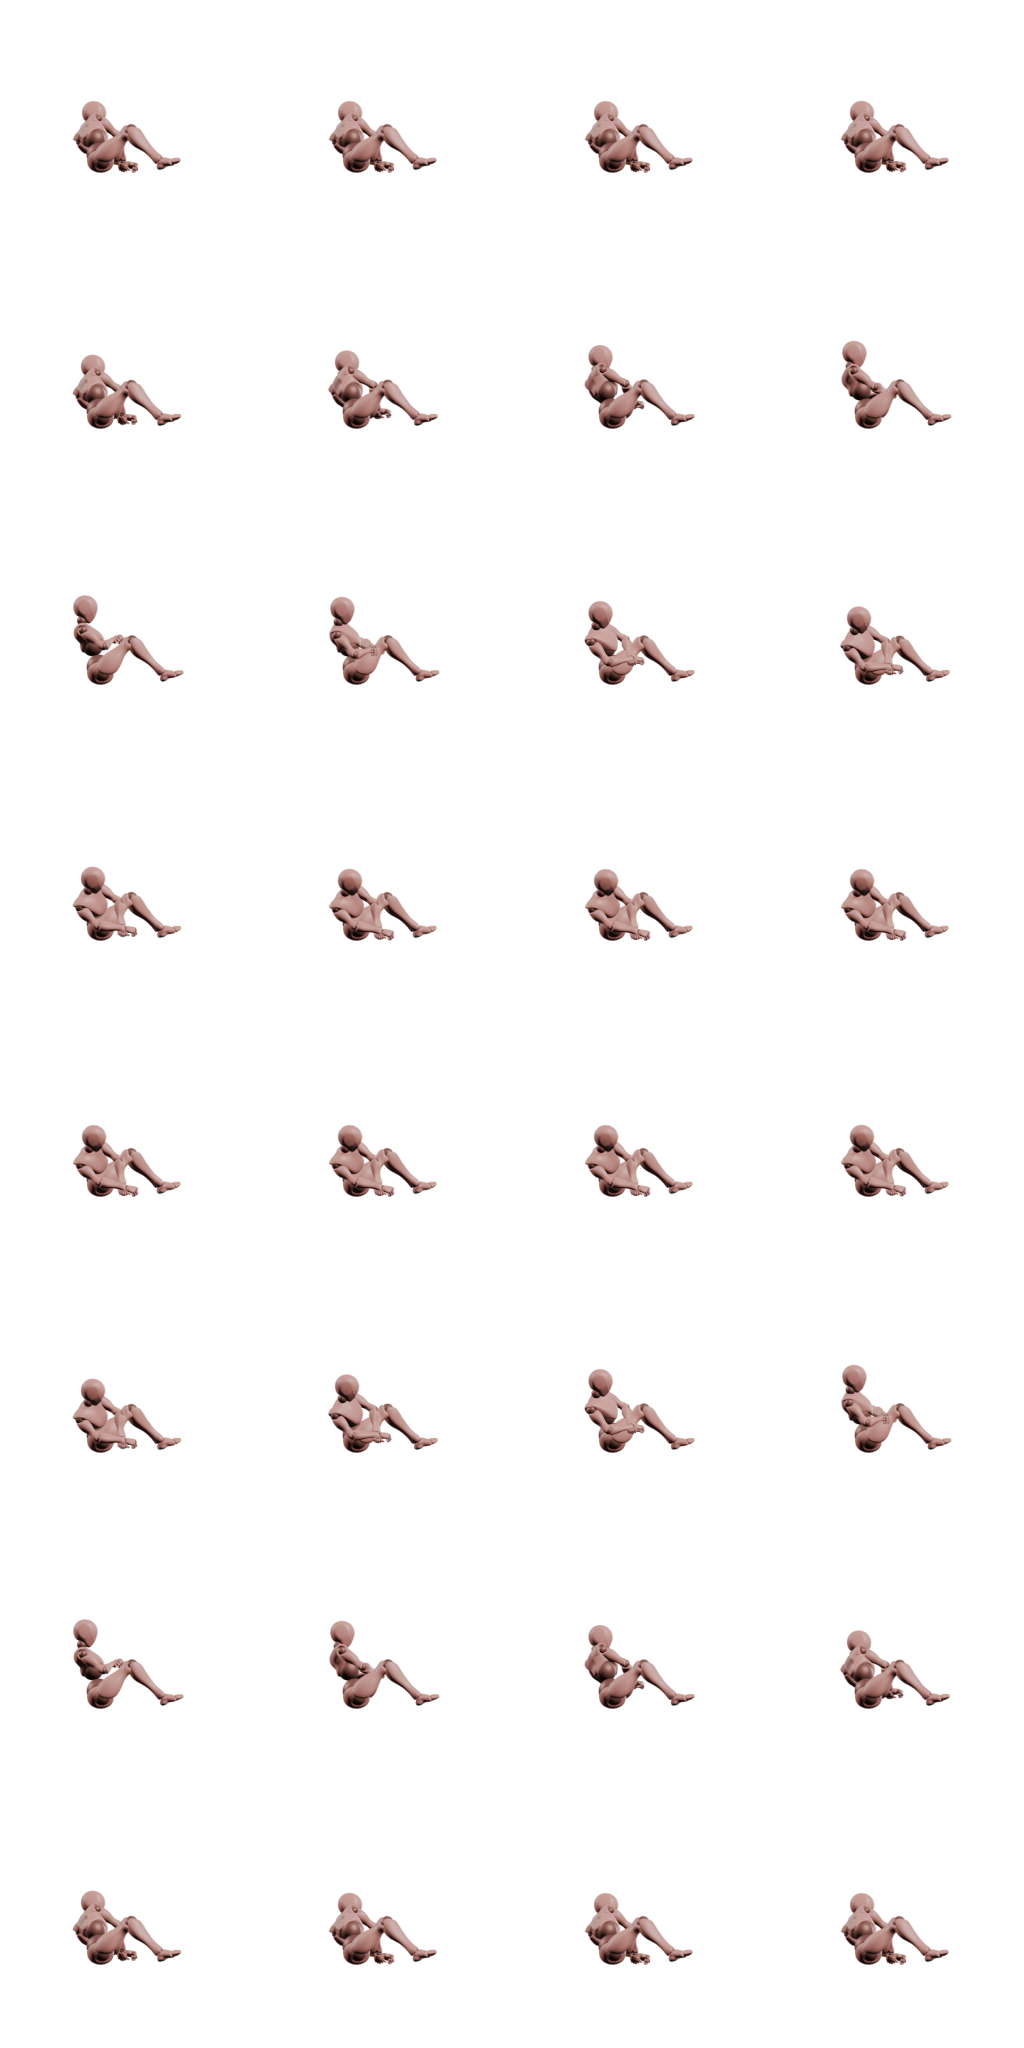
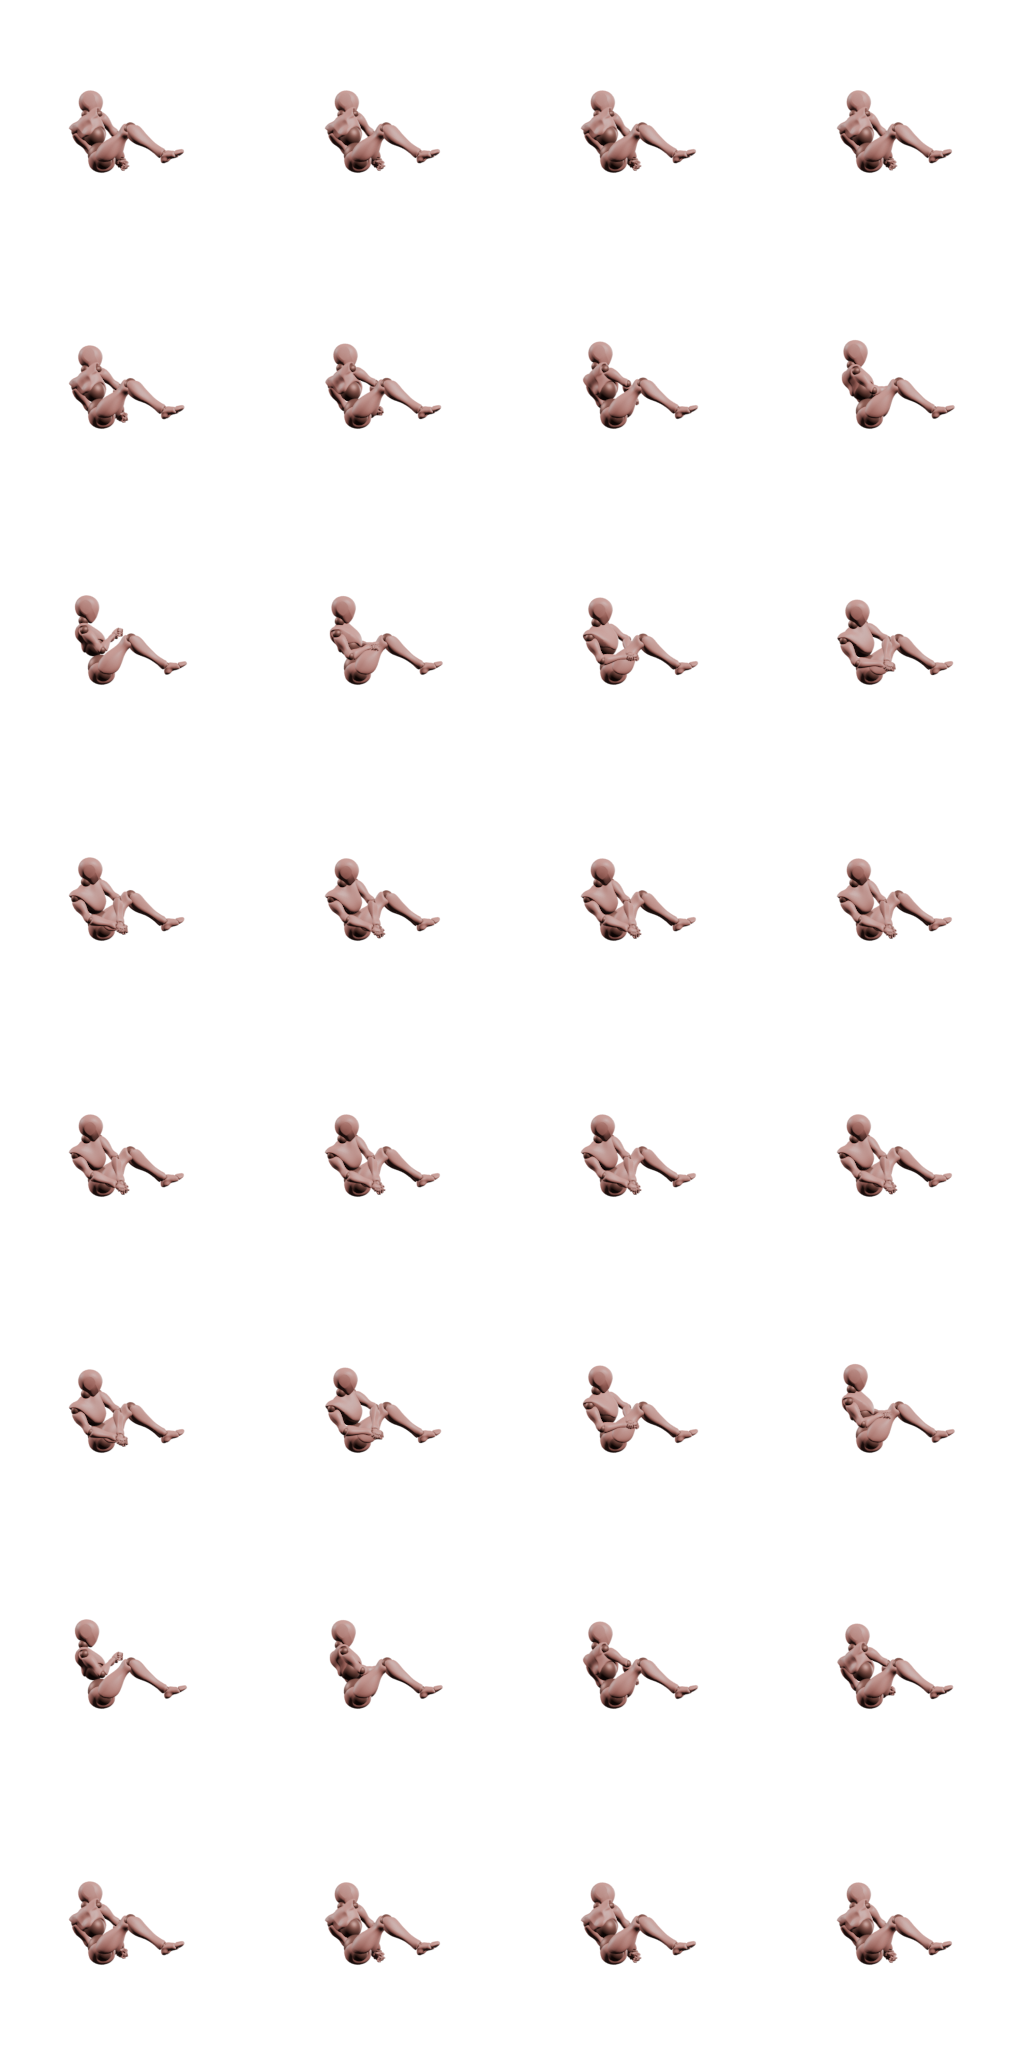
Russian twist : 70° de rotation, 35° d'inclinaison, pieds en l'air
Deux reproches, dont un que la mesure n'avait pas su voir.

Les pieds d'abord. Trois centimètres et demi au-dessus du tapis
passaient le contrôle — ils ne touchaient pas — et se voyaient
touchés : à cette échelle, la semelle et le sol se confondent. Le
genou se plie désormais à 87° avec la cheville portée en avant, ce
qui décolle le talon de **dix centimètres et demi**, assez pour que
l'œil le dise aussi.

La rotation ensuite, et c'est un arbitrage que la version précédente
refusait de faire. Pour poser le coude au tapis il fallait coucher le
tronc à 57° sur le côté ; à ce compte-là le geste se lit comme un
corps qui bascule de droite à gauche, pas comme un buste qui tourne.
On passe donc à **35° d'inclinaison pour 70° de rotation** : le
thorax se présente franchement de dos à un bout de course et de face
à l'autre, ce que fait la vidéo.

Le coude n'atteint donc plus le tapis — il s'arrête à une quinzaine
de centimètres, les mains jointes descendant, elles, à douze. Les
trois vidéos ne posent jamais le coude non plus ; c'est la main qui
vient frôler le sol à côté de la hanche.

La tête cesse de se jeter sur le côté à chaque bout de course : elle
suit le thorax et regarde les mains. Ce ballant était la deuxième
chose qu'on voyait après la bascule.

Mesuré sur les seize images : aucun bras dans le tronc (3,1 cm de la
peau au plus près), pieds à 10 cm, cinq centimètres et demi entre
l'avant-bras et la cuisse, saut moyen de 0,90 par image.
[…]

diff --git a/scripts/gestes_generes.py b/scripts/gestes_generes.py
@@ -1206,44 +1206,44 @@ GESTES = {
 
     # Russian twist, relevé sur trois vidéos de démonstration.
     #
-    # ## Le mouvement, tel que les vidéos le montrent
+    # ## Ce que le mouvement est, et ce qu'il n'est pas
     #
-    # Assis, buste en arrière d'une quarantaine de degrés, genoux pliés, talons
-    # décollés, mains jointes devant la poitrine. Ce qui tourne, c'est la
-    # **ceinture scapulaire** : les épaules pivotent autour de l'axe du tronc,
-    # une épaule part en avant pendant que l'autre recule, et les mains suivent
-    # jusqu'à venir frôler le tapis à côté de la hanche.
+    # Assis, buste en arrière, genoux pliés, talons décollés, mains jointes
+    # devant la poitrine. Ce qui travaille, c'est la **rotation** : les épaules
+    # tournent autour de l'axe du tronc, l'une part en avant pendant que
+    # l'autre recule, et les mains suivent jusqu'à venir près du tapis à côté
+    # de la hanche.
     #
-    # Cette description a coûté six essais, dont un qui a failli passer. Ce qui
-    # les a tous tués tient en une phrase : **une inclinaison latérale n'est pas
-    # une rotation**. Coucher le buste sur le côté descend bien la main au sol,
-    # mais laisse les deux épaules à la même profondeur — et le bras de
-    # l'épaule opposée doit alors traverser la poitrine pour rejoindre les
-    # mains. Mesuré sur la version précédente : l'humérus droit passait
-    # **2,6 cm sous la peau du thorax** sur quatorze images sur seize.
+    # Ce n'est **pas** une inclinaison latérale, et huit versions se sont
+    # perdues à confondre les deux. Coucher le buste sur le côté descend bien
+    # la main au sol — c'est même la seule façon d'y poser le coude —, mais
+    # cela laisse les deux épaules à la même profondeur : le geste se lit alors
+    # comme un corps qui bascule de droite à gauche, et le bras de l'épaule
+    # opposée n'a plus d'autre chemin vers les mains que le travers de la
+    # poitrine.
     #
-    # ## Les nombres, et d'où ils sortent
+    # D'où le partage retenu ici, et il se paie : **35° d'inclinaison, 70° de
+    # rotation**. Le coude ne touche donc plus le tapis — il s'arrête à une
+    # quinzaine de centimètres — parce que l'y amener demandait de coucher le
+    # tronc à 57°, et qu'à ce compte-là il n'y avait plus de rotation à voir.
+    # Les trois vidéos, du reste, ne posent jamais le coude : ce sont les mains
+    # jointes qui descendent frôler le tapis.
+    #
+    # ## Les nombres
     #
     # Relevé sur trente-huit images, en moyennant les **vecteurs** unitaires et
     # jamais les angles, qui explosent quand un segment passe près de la
     # verticale de l'image :
     #
+    #     bassin → épaule    (-0,436 ; +0,900)   64° au-dessus de l'horizontale
     #     bassin → genou     (+0,452 ; +0,892)   63°
     #     genou  → cheville  (+0,690 ; -0,724)  -46°
     #
-    # Repris de l'image elle-même pour ce que le relevé ne donne pas — il rend
-    # une pose de profil, et la rotation se joue dans la profondeur :
-    #
-    #     épaule au-dessus du tapis, au bout de course   ≈ 46 cm
-    #     inclinaison du tronc sur le côté, au bout      ≈ 52°
-    #     rotation des épaules autour de l'axe du tronc  ≈ 45°
-    #
-    # De là tout se déduit. Le bassin est à 0,19 m, le tronc mesure 0,432 m :
-    # la base du cou tombe à 0,43 · u du bassin, les épaules à 0,14 de part et
-    # d'autre le long de l'axe scapulaire tourné de 45°, et il ne reste qu'à
-    # vérifier que le point visé par les mains est à portée des deux bras et
-    # **devant** le plan de la poitrine. Il l'est : 0,43 m et 0,50 m pour une
-    # allonge de 0,562, et 36 cm en avant du sternum pour les deux.
+    # Le reste se construit : bassin à 0,19 m, tronc de 0,432 m, épaules à 0,14
+    # de part et d'autre le long de l'axe scapulaire tourné de 70°. Le point
+    # visé par les mains est alors à 0,52 m des deux épaules — pour une allonge
+    # de 0,562, donc un coude encore plié — et à 38 cm en avant du plan de la
+    # poitrine pour l'une comme pour l'autre.
     "russian-twist": {
         # De profil, comme les trois vidéos filment l'exercice. Le trois-quarts
         # avait été pris par réflexe — « le buste plie, donc trois-quarts » —,
@@ -1258,44 +1258,45 @@ GESTES = {
         "hauteur": 0.19,
         "symetrique": False,
         "poings": 1.0,
-        # Un temps au contact de chaque côté — c'est là qu'on marque —, rien au
+        # Un temps au bout de chaque côté — c'est là qu'on marque —, rien au
         # centre, qu'on traverse.
         "pauses": [0.16, 0.00, 0.16],
         "cles": [
             # Bout de course **à gauche**. Debout comme assis, la gauche du
             # personnage est en +X.
             _pose(ASSIS_EN_ARRIERE, {
-                # Le tronc s'incline de 52° vers la gauche en gardant sa
-                # bascule arrière : u = (0,788 ; 0,260 ; 0,558), ce qui pose
-                # l'épaule à 46 cm du tapis — la hauteur relevée.
+                # Le tronc s'incline de 35° vers la gauche en gardant sa
+                # bascule arrière relevée : u = (0,574 ; 0,347 ; 0,742).
                 #
-                # Le roulis, lui, dit la **rotation**, et il monte par étages :
-                # le bassin ne tourne pas, la colonne lombaire à moitié, le
-                # thorax en entier. C'est la torsion de l'exercice, et c'est
-                # elle qui manquait.
-                _os("Spine"): APlat((+0.839, +0.230, +0.494),
-                                    paume=(+0.273, -0.963, -0.014)),
-                _os("Spine1"): APlat((+0.839, +0.230, +0.494),
-                                     paume=(+0.472, -0.760, -0.446)),
-                _os("Spine2"): APlat((+0.839, +0.230, +0.494),
-                                     paume=(+0.472, -0.760, -0.446)),
-                _os("Neck"): (+0.65, +0.18, +0.74),
-                _os("Head"): (+0.38, -0.28, +0.88),
-                # L'axe des épaules, tourné de 45° : l'épaule gauche part en
-                # arrière et plonge, la droite vient en avant et monte. Sans ces
-                # deux lignes, les épaules gardent la profondeur que leur donne
-                # la seule inclinaison — et le bras droit n'a plus d'autre
-                # chemin que le travers de la poitrine.
-                _os("LeftShoulder"): (+0.273, +0.607, -0.746),
-                _os("RightShoulder"): (-0.273, -0.607, +0.746),
-                # Mains jointes à côté de la hanche gauche, à dix centimètres
-                # du tapis. Elles ne se superposent pas : l'une passe trois
-                # centimètres devant l'autre, le long de la normale au thorax,
-                # comme deux poings qu'on serre l'un contre l'autre.
-                _os("LeftArm"): Appui((+0.394, -0.283, +0.087),
-                                      (+0.273, +0.607, -0.746)),
-                _os("RightArm"): Appui((+0.366, -0.237, +0.113),
-                                       (-0.273, -0.607, +0.746)),
+                # Le roulis dit la **rotation**, et il monte par étages : le
+                # bassin ne tourne pas, la colonne lombaire de moitié, le
+                # thorax des 70° entiers. C'est ce dégradé qui fait une torsion
+                # plutôt qu'un bloc qui pivote.
+                _os("Spine"): APlat((+0.574, +0.347, +0.742),
+                                    paume=(+0.470, -0.881, +0.048)),
+                _os("Spine1"): APlat((+0.574, +0.347, +0.742),
+                                     paume=(+0.769, -0.538, -0.344)),
+                _os("Spine2"): APlat((+0.574, +0.347, +0.742),
+                                     paume=(+0.769, -0.538, -0.344)),
+                # La tête suit le thorax et regarde les mains, sans plus. Les
+                # versions précédentes la jetaient sur le côté à chaque bout de
+                # course, et c'est ce ballant-là qu'on voyait en premier.
+                _os("Neck"): (+0.35, +0.20, +0.92),
+                _os("Head"): (+0.30, -0.25, +0.92),
+                # L'axe des épaules, tourné de 70° : l'épaule gauche part en
+                # arrière, la droite vient en avant. Sans ces deux lignes, les
+                # épaules gardent la profondeur que leur donne la seule
+                # inclinaison, et il n'y a pas de rotation du tout.
+                _os("LeftShoulder"): (+0.280, +0.768, -0.575),
+                _os("RightShoulder"): (-0.280, -0.768, +0.575),
+                # Mains jointes à côté de la hanche gauche, à une douzaine de
+                # centimètres du tapis. Elles ne se superposent pas : deux
+                # centimètres et demi les séparent le long de l'axe des
+                # épaules, comme deux poings serrés l'un contre l'autre.
+                _os("LeftArm"): Appui((+0.337, -0.171, +0.116),
+                                      (+0.280, +0.768, -0.575)),
+                _os("RightArm"): Appui((+0.323, -0.209, +0.144),
+                                       (-0.280, -0.768, +0.575)),
                 _os("LeftHand"): SUIVRE,
                 _os("RightHand"): SUIVRE,
                 # Les jambes **contrebalancent** : quand les bras descendent à
@@ -1309,12 +1310,12 @@ GESTES = {
                 #
                 # Trente centimètres de décalage latéral sur la cuisse, soit un
                 # genou qui se déplace de quinze centimètres de chaque côté.
-                _os("LeftUpLeg"): (-0.234, -0.670, +0.704),
-                _os("RightUpLeg"): (-0.339, -0.648, +0.681),
-                _os("LeftLeg"): (-0.252, -0.678, -0.691),
-                _os("RightLeg"): (-0.322, -0.663, -0.675),
-                _os("LeftFoot"): (-0.288, -0.910, -0.297),
-                _os("RightFoot"): (-0.288, -0.910, -0.297),
+                _os("LeftUpLeg"): (-0.233, -0.622, +0.747),
+                _os("RightUpLeg"): (-0.339, -0.602, +0.723),
+                _os("LeftLeg"): (-0.252, -0.774, -0.581),
+                _os("RightLeg"): (-0.322, -0.757, -0.568),
+                _os("LeftFoot"): (-0.287, -0.939, -0.192),
+                _os("RightFoot"): (-0.287, -0.939, -0.192),
             }),
             # De face, mains jointes devant le sternum. Aucune torsion : c'est
             # le point de passage, pas une pose tenue.
@@ -1325,57 +1326,59 @@ GESTES = {
                                      paume=(+0.00, -0.906, +0.423)),
                 _os("Spine2"): APlat((+0.00, +0.423, +0.906),
                                      paume=(+0.00, -0.906, +0.423)),
-                _os("Neck"): (+0.00, +0.30, +0.95),
-                _os("Head"): (+0.00, -0.20, +0.98),
+                _os("Neck"): (+0.00, +0.25, +0.97),
+                _os("Head"): (+0.00, -0.18, +0.98),
                 _os("LeftShoulder"): (+1.00, +0.00, +0.00),
                 _os("RightShoulder"): (-1.00, +0.00, +0.00),
                 # Les mains remontent devant la poitrine, coudes pliés et
                 # rentrés — c'est la position de départ des trois vidéos, et
                 # non la main basse sur le ventre qu'avaient les versions
-                # précédentes. Vingt-quatre centimètres en avant de l'axe de la
-                # colonne, donc une douzaine devant la peau du thorax.
+                # précédentes.
                 #
-                # Le creux entre le buste et les cuisses est ce qui décide de
-                # la hauteur : les genoux passent à 0,50 m, les mains à 0,46 m
-                # et huit centimètres derrière eux. Elles longent la cuisse,
-                # elles ne la traversent pas.
-                _os("LeftArm"): Appui((+0.00, -0.160, +0.460),
-                                      (+0.90, +0.30, -0.31)),
-                _os("RightArm"): Appui((+0.00, -0.160, +0.460),
-                                       (-0.90, +0.30, -0.31)),
+                # Le creux entre le buste et les cuisses décide de la hauteur :
+                # les genoux passent à 0,53 m, les mains à 0,50 et seize
+                # centimètres derrière eux. Elles longent la cuisse, elles ne
+                # la traversent pas.
+                _os("LeftArm"): Appui((+0.025, -0.140, +0.500),
+                                      (+0.72, +0.20, -0.66)),
+                _os("RightArm"): Appui((-0.025, -0.140, +0.500),
+                                       (-0.72, +0.20, -0.66)),
                 _os("LeftHand"): SUIVRE,
                 _os("RightHand"): SUIVRE,
-                _os("LeftUpLeg"): (+0.06, -0.688, +0.723),
-                _os("RightUpLeg"): (-0.06, -0.688, +0.723),
-                _os("LeftLeg"): (+0.04, -0.700, -0.713),
-                _os("RightLeg"): (-0.04, -0.700, -0.713),
-                _os("LeftFoot"): (+0.00, -0.95, -0.31),
-                _os("RightFoot"): (+0.00, -0.95, -0.31),
+                # Genou plié à 87°, cheville en avant du genou, talon décollé
+                # d'une dizaine de centimètres : les pieds ne touchent jamais,
+                # et de assez loin pour que ça se voie.
+                _os("LeftUpLeg"): (+0.06, -0.639, +0.767),
+                _os("RightUpLeg"): (-0.06, -0.639, +0.767),
+                _os("LeftLeg"): (+0.04, -0.799, -0.599),
+                _os("RightLeg"): (-0.04, -0.799, -0.599),
+                _os("LeftFoot"): (+0.00, -0.98, -0.20),
+                _os("RightFoot"): (+0.00, -0.98, -0.20),
             }),
             # Bout de course **à droite**, miroir exact.
             _pose(ASSIS_EN_ARRIERE, {
-                _os("Spine"): APlat((-0.839, +0.230, +0.494),
-                                    paume=(-0.273, -0.963, -0.014)),
-                _os("Spine1"): APlat((-0.839, +0.230, +0.494),
-                                     paume=(-0.472, -0.760, -0.446)),
-                _os("Spine2"): APlat((-0.839, +0.230, +0.494),
-                                     paume=(-0.472, -0.760, -0.446)),
-                _os("Neck"): (-0.65, +0.18, +0.74),
-                _os("Head"): (-0.38, -0.28, +0.88),
-                _os("LeftShoulder"): (+0.273, -0.607, +0.746),
-                _os("RightShoulder"): (-0.273, +0.607, -0.746),
-                _os("LeftArm"): Appui((-0.366, -0.237, +0.113),
-                                      (+0.273, -0.607, +0.746)),
-                _os("RightArm"): Appui((-0.394, -0.283, +0.087),
-                                       (-0.273, +0.607, -0.746)),
+                _os("Spine"): APlat((-0.574, +0.347, +0.742),
+                                    paume=(-0.470, -0.881, +0.048)),
+                _os("Spine1"): APlat((-0.574, +0.347, +0.742),
+                                     paume=(-0.769, -0.538, -0.344)),
+                _os("Spine2"): APlat((-0.574, +0.347, +0.742),
+                                     paume=(-0.769, -0.538, -0.344)),
+                _os("Neck"): (-0.35, +0.20, +0.92),
+                _os("Head"): (-0.30, -0.25, +0.92),
+                _os("LeftShoulder"): (+0.280, -0.768, +0.575),
+                _os("RightShoulder"): (-0.280, +0.768, -0.575),
+                _os("LeftArm"): Appui((-0.323, -0.209, +0.144),
+                                      (+0.280, -0.768, +0.575)),
+                _os("RightArm"): Appui((-0.337, -0.171, +0.116),
+                                       (-0.280, +0.768, -0.575)),
                 _os("LeftHand"): SUIVRE,
                 _os("RightHand"): SUIVRE,
-                _os("LeftUpLeg"): (+0.339, -0.648, +0.681),
-                _os("RightUpLeg"): (+0.234, -0.670, +0.704),
-                _os("LeftLeg"): (+0.322, -0.663, -0.675),
-                _os("RightLeg"): (+0.252, -0.678, -0.691),
-                _os("LeftFoot"): (+0.288, -0.910, -0.297),
-                _os("RightFoot"): (+0.288, -0.910, -0.297),
+                _os("LeftUpLeg"): (+0.339, -0.602, +0.723),
+                _os("RightUpLeg"): (+0.233, -0.622, +0.747),
+                _os("LeftLeg"): (+0.322, -0.757, -0.568),
+                _os("RightLeg"): (+0.252, -0.774, -0.581),
+                _os("LeftFoot"): (+0.287, -0.939, -0.192),
+                _os("RightFoot"): (+0.287, -0.939, -0.192),
             }),
         ],
     },
